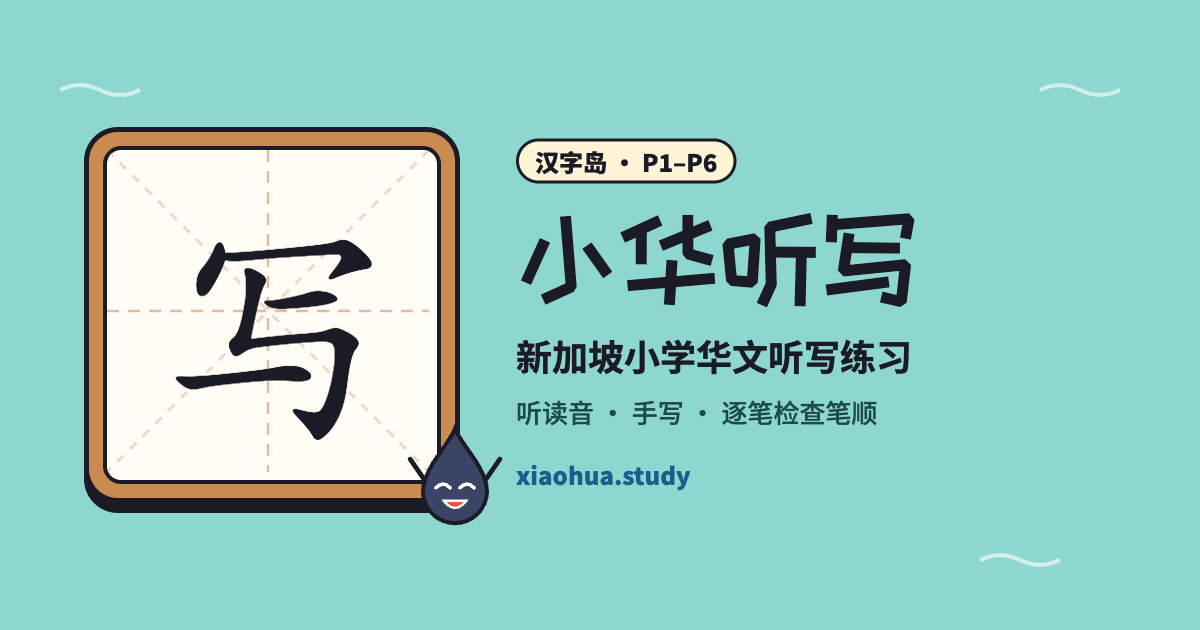
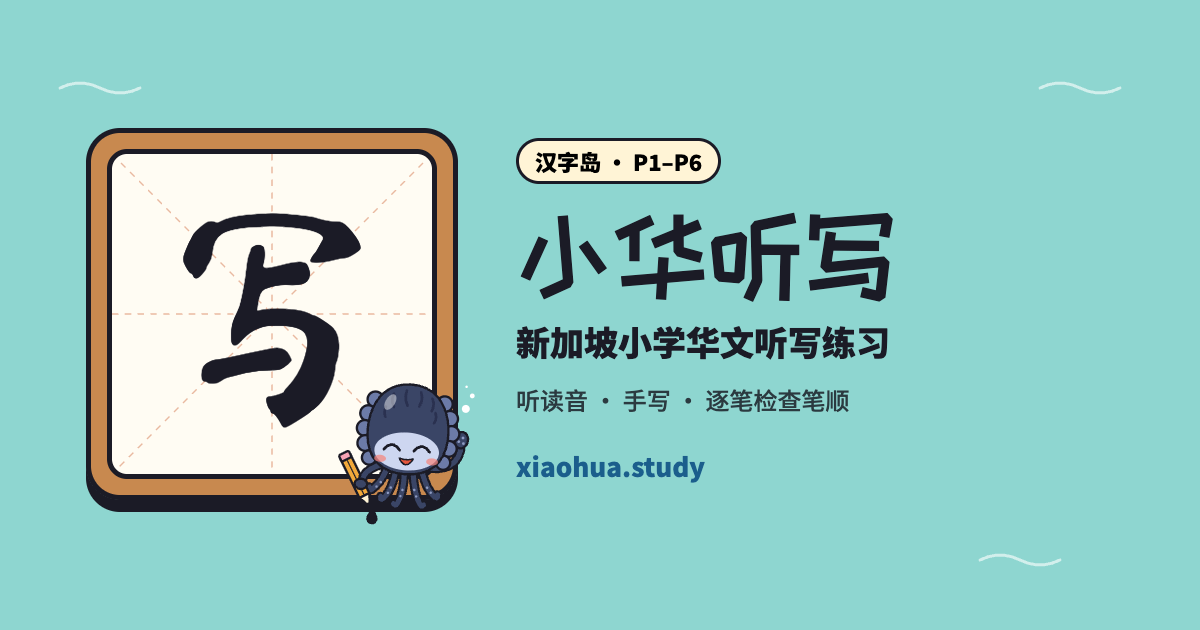
New 墨墨: a cuttlefish with a pencil, shared by the app, footer and word-list pages

diff --git a/src/lib/mascot-svg.js b/src/lib/mascot-svg.js
@@ -1,0 +1,79 @@
+// 墨墨 — a little cuttlefish (墨鱼) holding a pencil, from the designer's cuttlefish-mascot.svg.
+// One source for the app (Mascot.jsx) and the static word-list pages (scripts/seo-pages.mjs).
+// Moods: happy (default), look (eyes up, while writing), worried (after a mistake),
+// cheer (level complete: happy eyes, open mouth, bubbles).
+
+// cropped to the character (the designer's water line is left out)
+export const MASCOT_VIEWBOX = '32 28 354 380'
+export const MASCOT_RATIO = 380 / 354
+
+const NAVY = '#3A4566'
+const INK = '#1B1B26'
+const SUCKER = '#8E9BC2'
+
+const ARMS = [
+  'M164 258 Q150 300 128 316 q-10 6 -6 -6',
+  'M186 264 Q180 314 160 336 q-8 8 -8 -4',
+  'M208 266 Q210 320 196 346 q-4 10 -10 2',
+  'M230 266 Q236 318 252 344 q6 10 10 2',
+  'M252 262 Q266 306 288 324 q10 6 8 -6',
+]
+const WAVE = 'M270 252 C 320 256 350 228 346 186'
+const HOLD = 'M152 250 C 118 262 100 280 104 300'
+
+const tube = (d) => `<path d="${d}" fill="none" stroke-width="24"/><path d="${d}" fill="none" stroke="${NAVY}" stroke-width="13"/>`
+
+function eyes(mood) {
+  if (mood === 'cheer') {
+    // ^ ^
+    return `<path d="M152 212 q20 -26 40 0" fill="none" stroke-width="7"/><path d="M228 212 q20 -26 40 0" fill="none" stroke-width="7"/>`
+  }
+  const dy = mood === 'look' ? -7 : mood === 'worried' ? 3 : 0
+  const one = (cx) =>
+    `<ellipse cx="${cx}" cy="204" rx="22" ry="24" fill="#FFFFFF" stroke-width="5"/>` +
+    `<ellipse cx="${cx + 3}" cy="${208 + dy}" rx="14" ry="16" fill="${INK}" stroke="none"/>` +
+    `<circle cx="${cx + 8}" cy="${201 + dy}" r="5" fill="#FFFFFF" stroke="none"/>` +
+    `<circle cx="${cx - 2}" cy="${214 + dy}" r="2.2" fill="#FFFFFF" stroke="none"/>`
+  const brows =
+    mood === 'worried' ? `<path d="M152 172 L186 164" fill="none" stroke-width="6"/><path d="M234 164 L268 172" fill="none" stroke-width="6"/>` : ''
+  return one(172) + one(248) + brows
+}
+
+function mouth(mood) {
+  if (mood === 'cheer') return `<path d="M192 232 Q210 264 228 232 Q210 238 192 232 Z" fill="#E4573D" stroke-width="4"/>`
+  if (mood === 'worried') return `<path d="M196 244 q7 -8 14 0 q7 8 14 0" fill="none" stroke-width="4"/>`
+  return `<path d="M198 236 Q210 252 222 236 Q210 241 198 236 Z" fill="#E4573D" stroke-width="4"/>`
+}
+
+/** The inner markup of the mascot's <svg> (use with MASCOT_VIEWBOX). */
+export function mascotInner(mood = 'happy') {
+  const bubbles =
+    mood === 'cheer'
+      ? `<g fill="#FFFFFF" stroke="#8ED6D0" stroke-width="4"><circle cx="352" cy="96" r="12"/><circle cx="366" cy="62" r="8"/><circle cx="350" cy="40" r="5"/></g>`
+      : ''
+  return `<g stroke="${INK}" stroke-width="6" stroke-linejoin="round" stroke-linecap="round">
+${bubbles}
+${tube(WAVE)}<ellipse cx="346" cy="176" rx="17" ry="21" fill="${NAVY}" transform="rotate(10 346 176)"/>
+<g fill="${SUCKER}" stroke="none"><circle cx="340" cy="180" r="3.4"/><circle cx="350" cy="170" r="3.4"/><circle cx="352" cy="184" r="3.4"/></g>
+<g fill="none" stroke-width="24">${ARMS.map((d) => `<path d="${d}"/>`).join('')}</g>
+<g fill="none" stroke="${NAVY}" stroke-width="13">${ARMS.map((d) => `<path d="${d}"/>`).join('')}</g>
+<g fill="${SUCKER}" stroke="none"><circle cx="150" cy="296" r="3.2"/><circle cx="140" cy="308" r="3"/><circle cx="176" cy="308" r="3.2"/><circle cx="170" cy="322" r="3"/><circle cx="206" cy="312" r="3.2"/><circle cx="202" cy="328" r="3"/><circle cx="236" cy="310" r="3.2"/><circle cx="242" cy="326" r="3"/><circle cx="268" cy="302" r="3.2"/><circle cx="278" cy="314" r="3"/></g>
+<g transform="rotate(-30 92 300)"><rect x="78" y="226" width="28" height="112" rx="4" fill="#F2A93B"/><rect x="78" y="218" width="28" height="18" rx="5" fill="#F7A3B5"/><path d="M78 338 L92 370 L106 338 Z" fill="#FFF4D6"/><path d="M87 359 L92 370 L97 359 Z" fill="${INK}" stroke-width="3"/><path d="M92 240 V 334" fill="none" stroke-width="3"/></g>
+<path d="M134 366 C 134 366 122 382 122 390 a12 12 0 0 0 24 0 C 146 382 134 366 134 366 Z" fill="${INK}" stroke-width="5"/>
+${tube(HOLD)}<ellipse cx="100" cy="304" rx="16" ry="13" fill="${NAVY}"/>
+<g fill="#6C7BA8"><circle cx="122" cy="88" r="20"/><circle cx="106" cy="124" r="20"/><circle cx="100" cy="162" r="20"/><circle cx="104" cy="200" r="20"/><circle cx="116" cy="236" r="18"/><circle cx="298" cy="88" r="20"/><circle cx="314" cy="124" r="20"/><circle cx="320" cy="162" r="20"/><circle cx="316" cy="200" r="20"/><circle cx="304" cy="236" r="18"/></g>
+<path d="M210 44 C 290 44 316 118 312 178 C 308 238 272 272 210 272 C 148 272 112 238 108 178 C 104 118 130 44 210 44 Z" fill="${NAVY}"/>
+<g fill="none" stroke="#2A3150" stroke-width="7"><path d="M168 70 q-8 18 2 34"/><path d="M200 60 q-6 20 4 38"/><path d="M236 62 q8 18 -2 36"/><path d="M266 76 q8 16 0 32"/><path d="M150 104 q-6 14 0 26"/><path d="M276 112 q6 14 -2 26"/></g>
+<ellipse cx="160" cy="92" rx="12" ry="22" fill="#FFFFFF" stroke="none" opacity="0.45" transform="rotate(28 160 92)"/>
+<ellipse cx="210" cy="214" rx="82" ry="48" fill="#CDD6F0" stroke="none"/>
+${eyes(mood)}
+<ellipse cx="144" cy="236" rx="15" ry="9" fill="#F7837A" stroke="none" opacity="0.7"/><ellipse cx="276" cy="236" rx="15" ry="9" fill="#F7837A" stroke="none" opacity="0.7"/>
+${mouth(mood)}
+</g>`
+}
+
+/** A complete <svg> string, for static HTML. */
+export function mascotSvg({ mood = 'happy', width = 64, className = '' } = {}) {
+  const h = Math.round(width * MASCOT_RATIO)
+  return `<svg${className ? ` class="${className}"` : ''} width="${width}" height="${h}" viewBox="${MASCOT_VIEWBOX}" aria-hidden="true">${mascotInner(mood)}</svg>`
+}

diff --git a/src/components/Mascot.jsx b/src/components/Mascot.jsx
@@ -1,44 +1,20 @@
-// 墨墨 — the ink-drop guide of 汉字岛. Moods: happy (default), look (eyes up, while writing),
-// worried (after a mistake), cheer (level complete, with arms up).
+import { mascotInner, MASCOT_VIEWBOX, MASCOT_RATIO } from '../lib/mascot-svg.js'
+
+// 墨墨 — the little cuttlefish (墨鱼) who guides 汉字岛. Drawing in src/lib/mascot-svg.js.
+// Moods: happy (default), look (eyes up, while writing), worried (after a mistake),
+// cheer (level complete).
 export default function Mascot({ mood = 'happy', size = 64, className = '', label }) {
-  const h = Math.round((size * 130) / 120)
   return (
     <svg
       className={`mascot ${className}`}
       width={size}
-      height={h}
-      viewBox="0 0 120 130"
+      height={Math.round(size * MASCOT_RATIO)}
+      viewBox={MASCOT_VIEWBOX}
       role={label ? 'img' : undefined}
       aria-label={label}
       aria-hidden={label ? undefined : true}
-    >
-      {mood === 'cheer' && (
-        <>
-          <path d="M22 70 L 4 44" stroke="#1B1B26" strokeWidth="6" strokeLinecap="round" />
-          <path d="M98 70 L 116 44" stroke="#1B1B26" strokeWidth="6" strokeLinecap="round" />
-        </>
-      )}
-      <path d="M60 6 C 52 26 20 56 20 84 a40 40 0 0 0 80 0 C 100 56 68 26 60 6 Z" fill="#3A4566" stroke="#1B1B26" strokeWidth="5" />
-      {mood === 'cheer' ? (
-        <>
-          <path d="M36 80 q9 -10 18 0" stroke="#FFFFFF" strokeWidth="4.5" fill="none" strokeLinecap="round" />
-          <path d="M66 80 q9 -10 18 0" stroke="#FFFFFF" strokeWidth="4.5" fill="none" strokeLinecap="round" />
-          <path d="M46 96 q14 18 28 0 z" fill="#E4573D" stroke="#FFFFFF" strokeWidth="3" strokeLinejoin="round" />
-        </>
-      ) : (
-        <>
-          <circle cx="45" cy="82" r="9" fill="#FFFFFF" />
-          <circle cx="75" cy="82" r="9" fill="#FFFFFF" />
-          <circle cx={mood === 'look' ? 45 : 47} cy={mood === 'look' ? 78 : 84} r="4.5" fill="#1B1B26" />
-          <circle cx={mood === 'look' ? 75 : 77} cy={mood === 'look' ? 78 : 84} r="4.5" fill="#1B1B26" />
-          {mood === 'worried' ? (
-            <path d="M50 104 q10 -6 20 0" stroke="#FFFFFF" strokeWidth="4" fill="none" strokeLinecap="round" />
-          ) : (
-            <path d="M52 102 q8 7 16 0" stroke="#FFFFFF" strokeWidth="4" fill="none" strokeLinecap="round" />
-          )}
-        </>
-      )}
-    </svg>
+      dangerouslySetInnerHTML={{ __html: mascotInner(mood) }}
+    />
   )
 }
 

diff --git a/src/components/Footer.jsx b/src/components/Footer.jsx
@@ -1,3 +1,4 @@
+import Mascot from './Mascot.jsx'
 import { GRADES, gradeWordCount } from '../lib/levels.js'
 import { useT, getLang } from '../lib/i18n.js'
 
@@ -36,14 +37,7 @@ export default function Footer() {
           <div className="foot-brand">
             <span className="brand-logo big">写</span>
             <span className="display">{t('小华听写')}</span>
-            <svg width="46" height="50" viewBox="0 0 120 130" aria-hidden="true">
-              <path d="M60 6 C 52 26 20 56 20 84 a40 40 0 0 0 80 0 C 100 56 68 26 60 6 Z" fill="#8ED6D0" stroke="#1B1B26" strokeWidth="6" />
-              <circle cx="45" cy="82" r="9" fill="#FFFFFF" />
-              <circle cx="75" cy="82" r="9" fill="#FFFFFF" />
-              <circle cx="47" cy="84" r="4.5" fill="#1B1B26" />
-              <circle cx="77" cy="84" r="4.5" fill="#1B1B26" />
-              <path d="M52 102 q8 7 16 0" stroke="#1B1B26" strokeWidth="4" fill="none" strokeLinecap="round" />
-            </svg>
+            <Mascot size={50} />
           </div>
           <p>{t('小华听写是给新加坡小学生的华文听写练习：听读音、看拼音，在田字格里把整个词写出来，写完逐个字检查笔画、笔顺和方向。词语整理自 P1–P6 华文考卷里最常出现的词。')}</p>
           {/* in English mode the paragraph above is already English */}

diff --git a/src/styles.css b/src/styles.css
@@ -490,6 +490,7 @@ a { color: inherit; }
 .foot-about { flex: 999 1 420px; min-width: 0; display: flex; flex-direction: column; gap: 14px; }
 .foot-brand { display: flex; align-items: center; gap: 12px; }
 .foot-brand .display { font-size: 26px; }
+.foot-brand .mascot { width: 52px; height: 52px; padding: 3px; box-sizing: border-box; background: #8ED6D0; border: 3px solid var(--ink); border-radius: 50%; }
 .brand-logo.big { width: 44px; height: 44px; border-radius: 14px; font-size: 26px; }
 .foot-about p { font-size: 15px; line-height: 1.8; color: #e3e7f2; }
 .foot-about p.en { font-size: 14px; line-height: 1.7; color: #b9c0d4; }

diff --git a/src/components/Home.jsx b/src/components/Home.jsx
@@ -68,7 +68,7 @@ export default function Home({ prefs, onPrefs, onStartLevel, onMix, onReview, on
                   {isHere && (
                     <div className="you-are-here" aria-hidden="true">
                       <span>{t('你在这里')}</span>
-                      <Mascot size={52} />
+                      <Mascot size={64} />
                     </div>
                   )}
                   <button

diff --git a/changelog.md b/changelog.md
@@ -1,5 +1,9 @@
 # Changelog
 
+## 0.8.2 — 2026-10-05
+- New 墨墨: a little cuttlefish (墨鱼) holding a pencil, from the designer's drawing, replacing the ink drop. Same four moods (happy, look, worried, cheer — happy eyes, open mouth and bubbles). One drawing (`src/lib/mascot-svg.js`) is shared by the app, the footer and the 词语表 pages; in the dark footer he sits on a teal badge. New share image (og.png).
+- 管理订阅 shows "正在打开…" and a clear message when the Stripe portal can't open (instead of doing nothing); checkout replaces a saved Stripe customer that no longer exists.
+
 ## 0.8.1 — 2026-10-05
 - The paid plan is now called **小华听写 Pro** (was Plus) everywhere on the site, in both languages. Stripe goes live with SGD prices.
 
